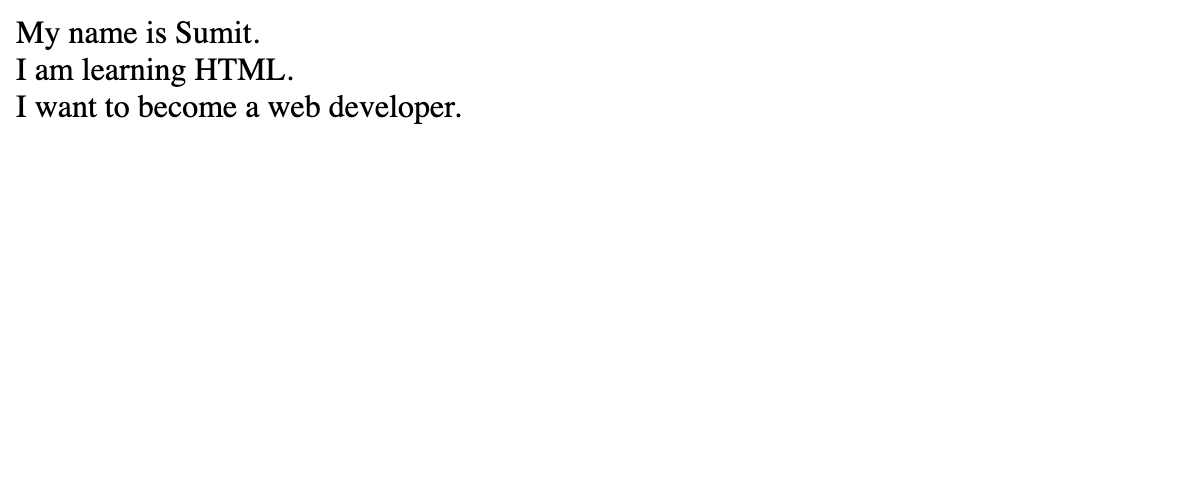
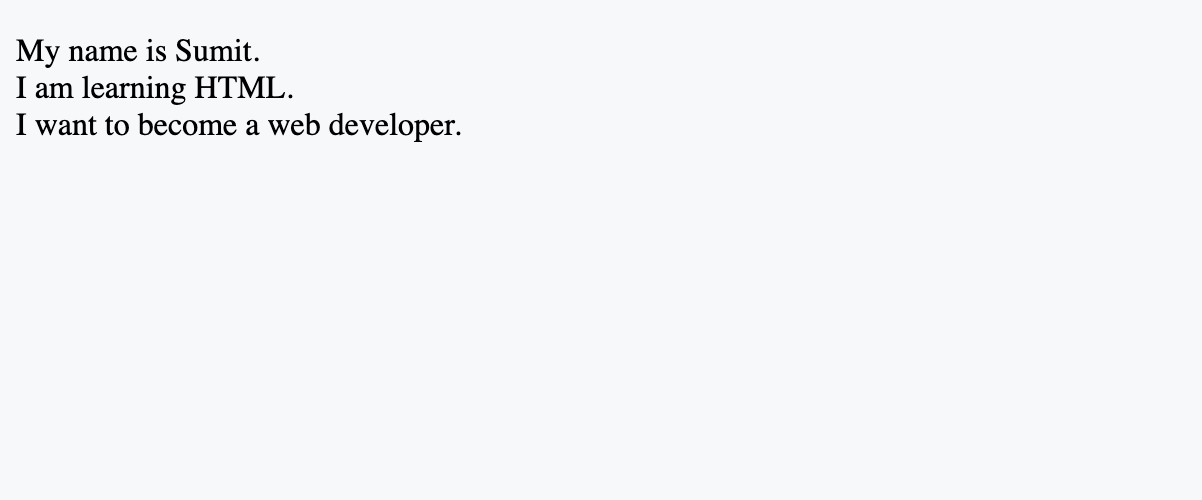
README.md file is updated and assets/output_images images rename

Changed region(s): [[0.0, 0.03, 0.4002, 0.27]]

diff --git a/README.md b/README.md
@@ -1,6 +1,6 @@
 <h1 align="center" id="top">Complete HTML Notes</h1>
 
-# Table of Contents
+## Table of Contents
 
 1. [Introduction to HTML](#1-introduction-to-html)
    1. [What is HTML?](#what-is-html)
@@ -861,7 +861,7 @@ Subject: HTML
 
 **Output :**
 
-<img src="assets/output_images/19.png">
+<img src="assets/output_images/image19.png" width="600" height="250">
 
 <!-- Add your output screenshot here. Recommended size: 600 × 200 px -->
 
@@ -882,7 +882,7 @@ Subject: HTML
 
 **Output :**
 
-<img src="assets/output_images/20.png" width="600" height="250">
+<img src="assets/output_images/image20.png" width="600" height="250">
 
 <!-- Add your output screenshot here. Recommended size: 600 × 150 px -->
 
